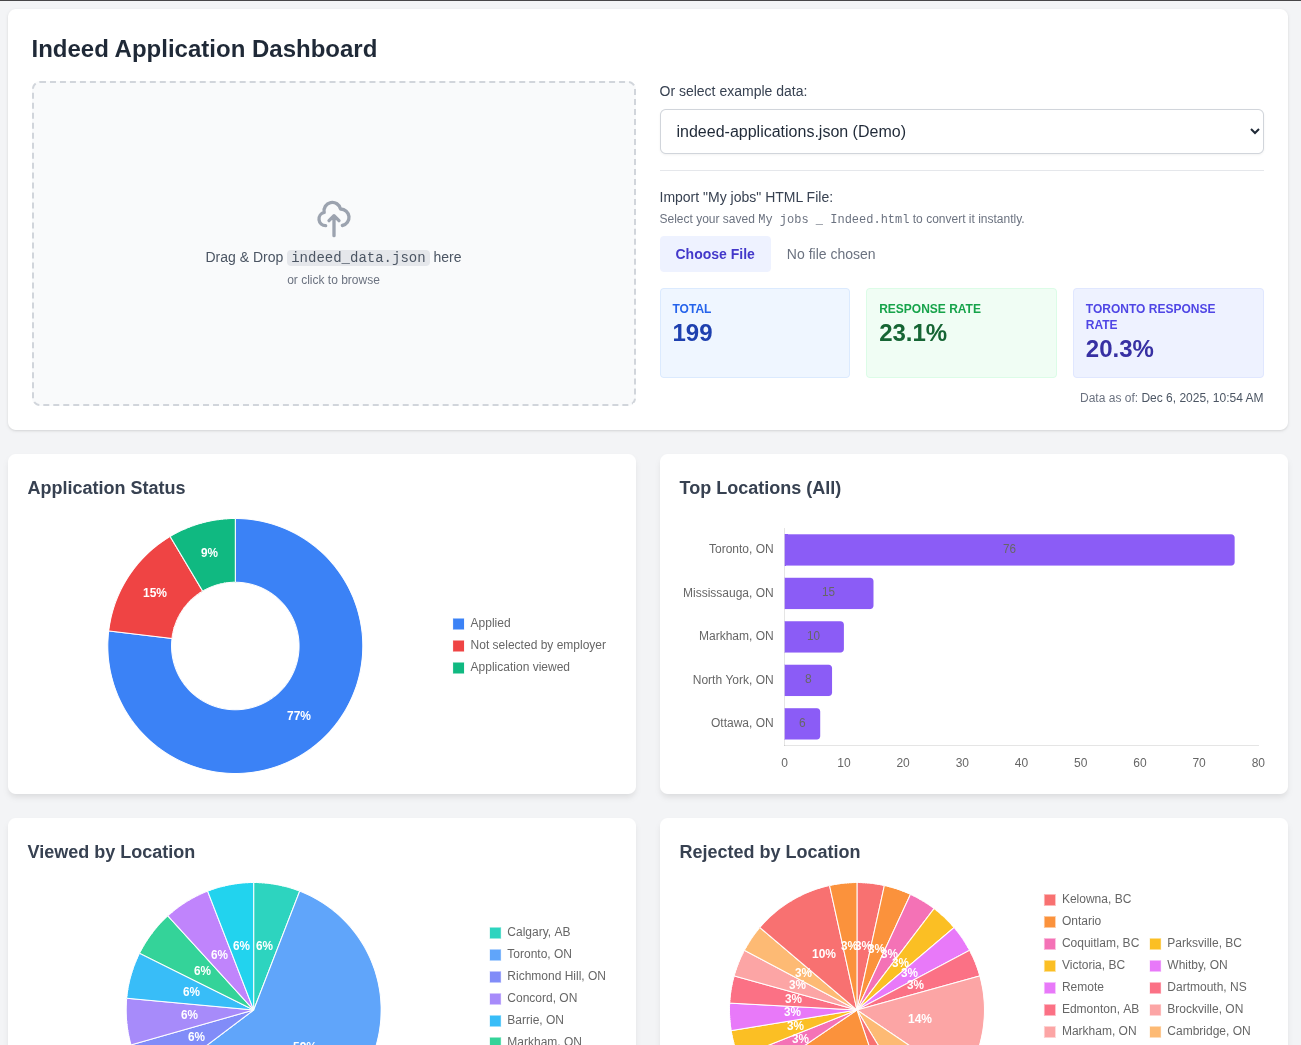
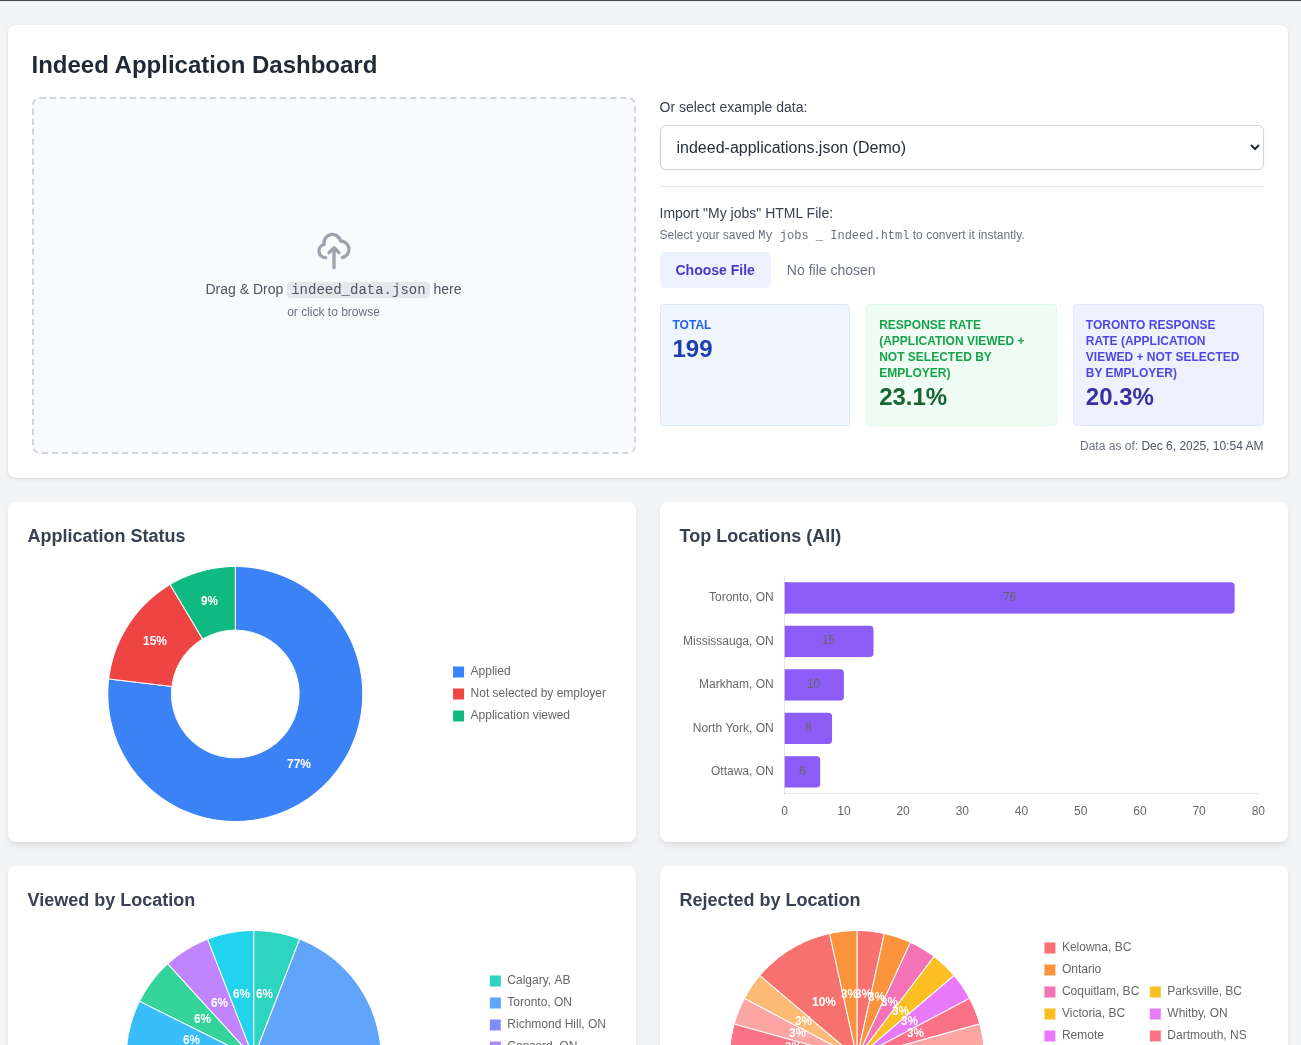
Update wording for RR and example.

diff --git a/src/index.html b/src/index.html
@@ -71,11 +71,11 @@
                                 <span id="total-count" class="text-2xl font-bold text-blue-800">--</span>
                             </div>
                             <div class="bg-green-50 p-3 rounded border border-green-100">
-                                <p class="text-xs text-green-600 font-bold uppercase">Response Rate</p>
+                                <p class="text-xs text-green-600 font-bold uppercase">Response Rate (Application viewed + Not selected by employer)</p>
                                 <span id="response-rate" class="text-2xl font-bold text-green-800">--%</span>
                             </div>
                             <div class="bg-indigo-50 p-3 rounded border border-indigo-100">
-                                <p class="text-xs text-indigo-600 font-bold uppercase">Toronto Response Rate</p>
+                                <p class="text-xs text-indigo-600 font-bold uppercase">Toronto Response Rate (Application viewed + Not selected by employer)</p>
                                 <span id="toronto-response-rate" class="text-2xl font-bold text-indigo-800">--%</span>
                             </div>
                         </div>
